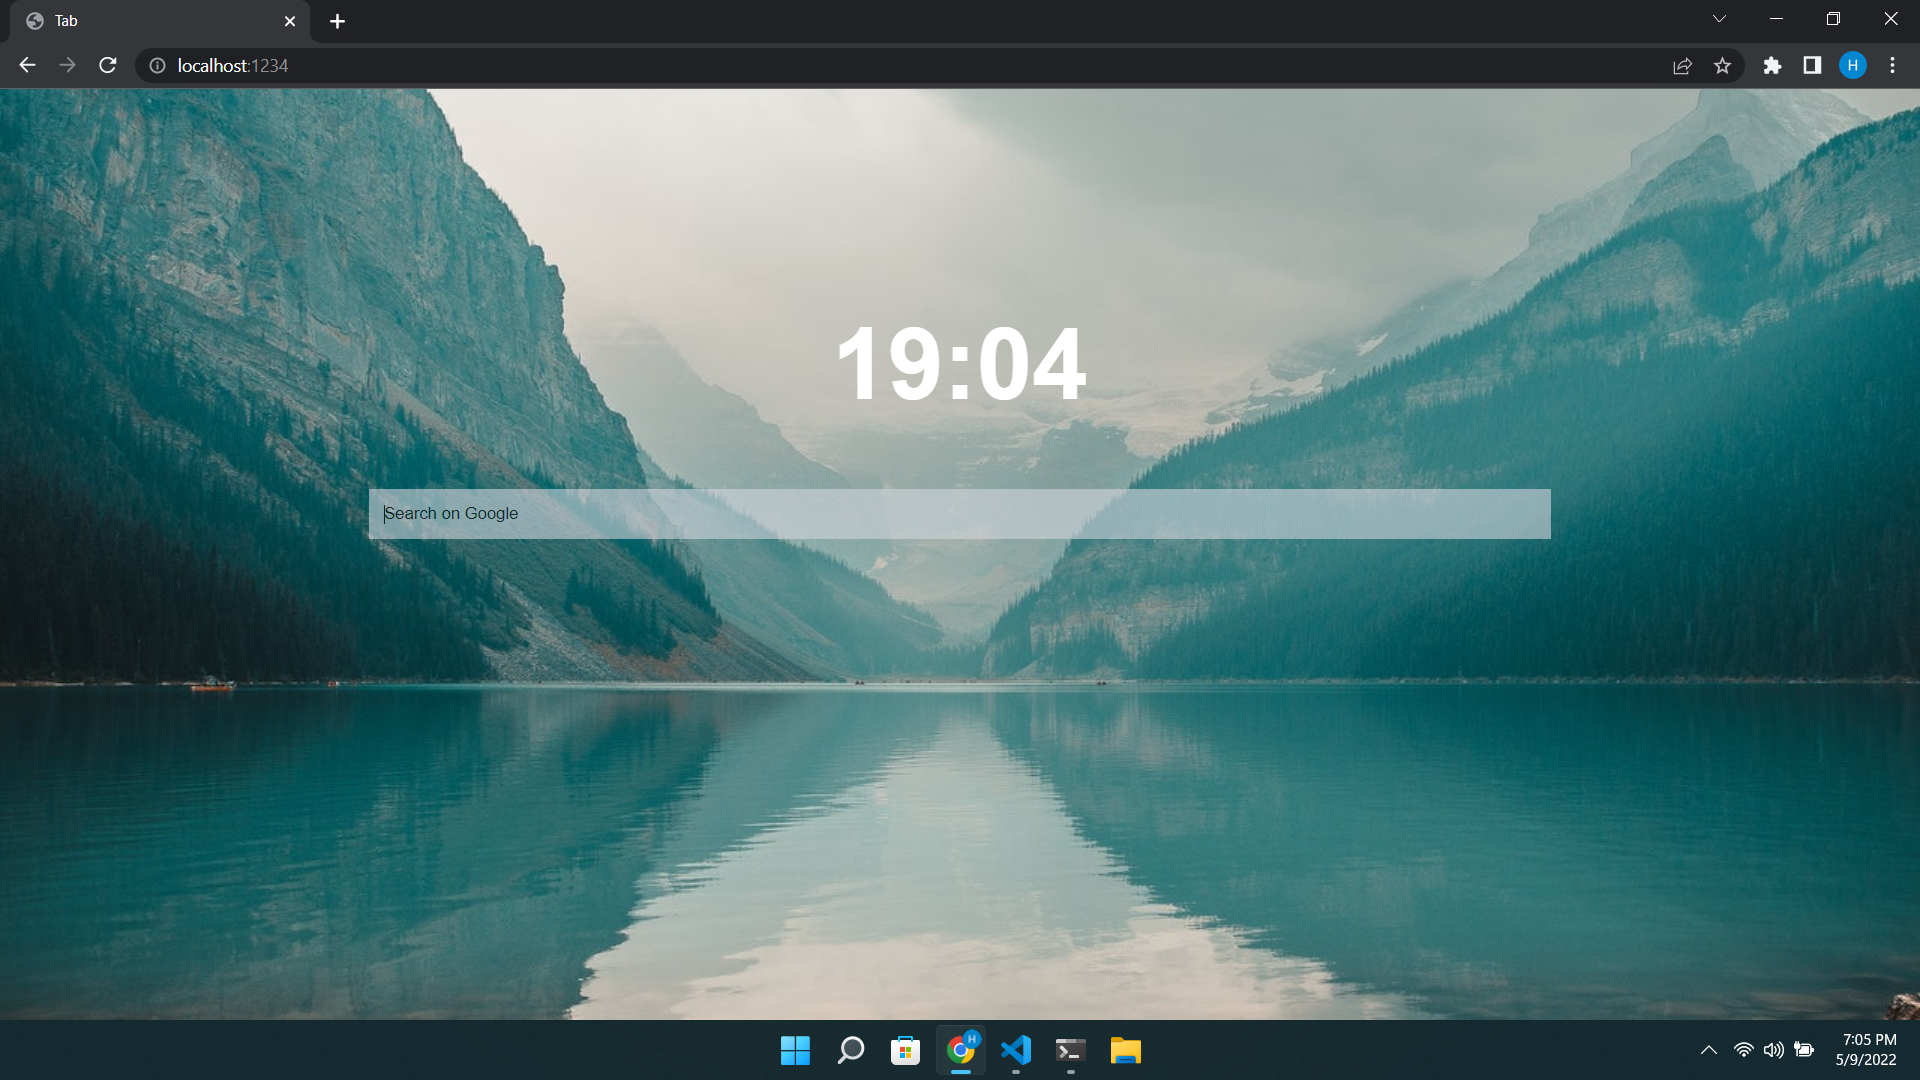
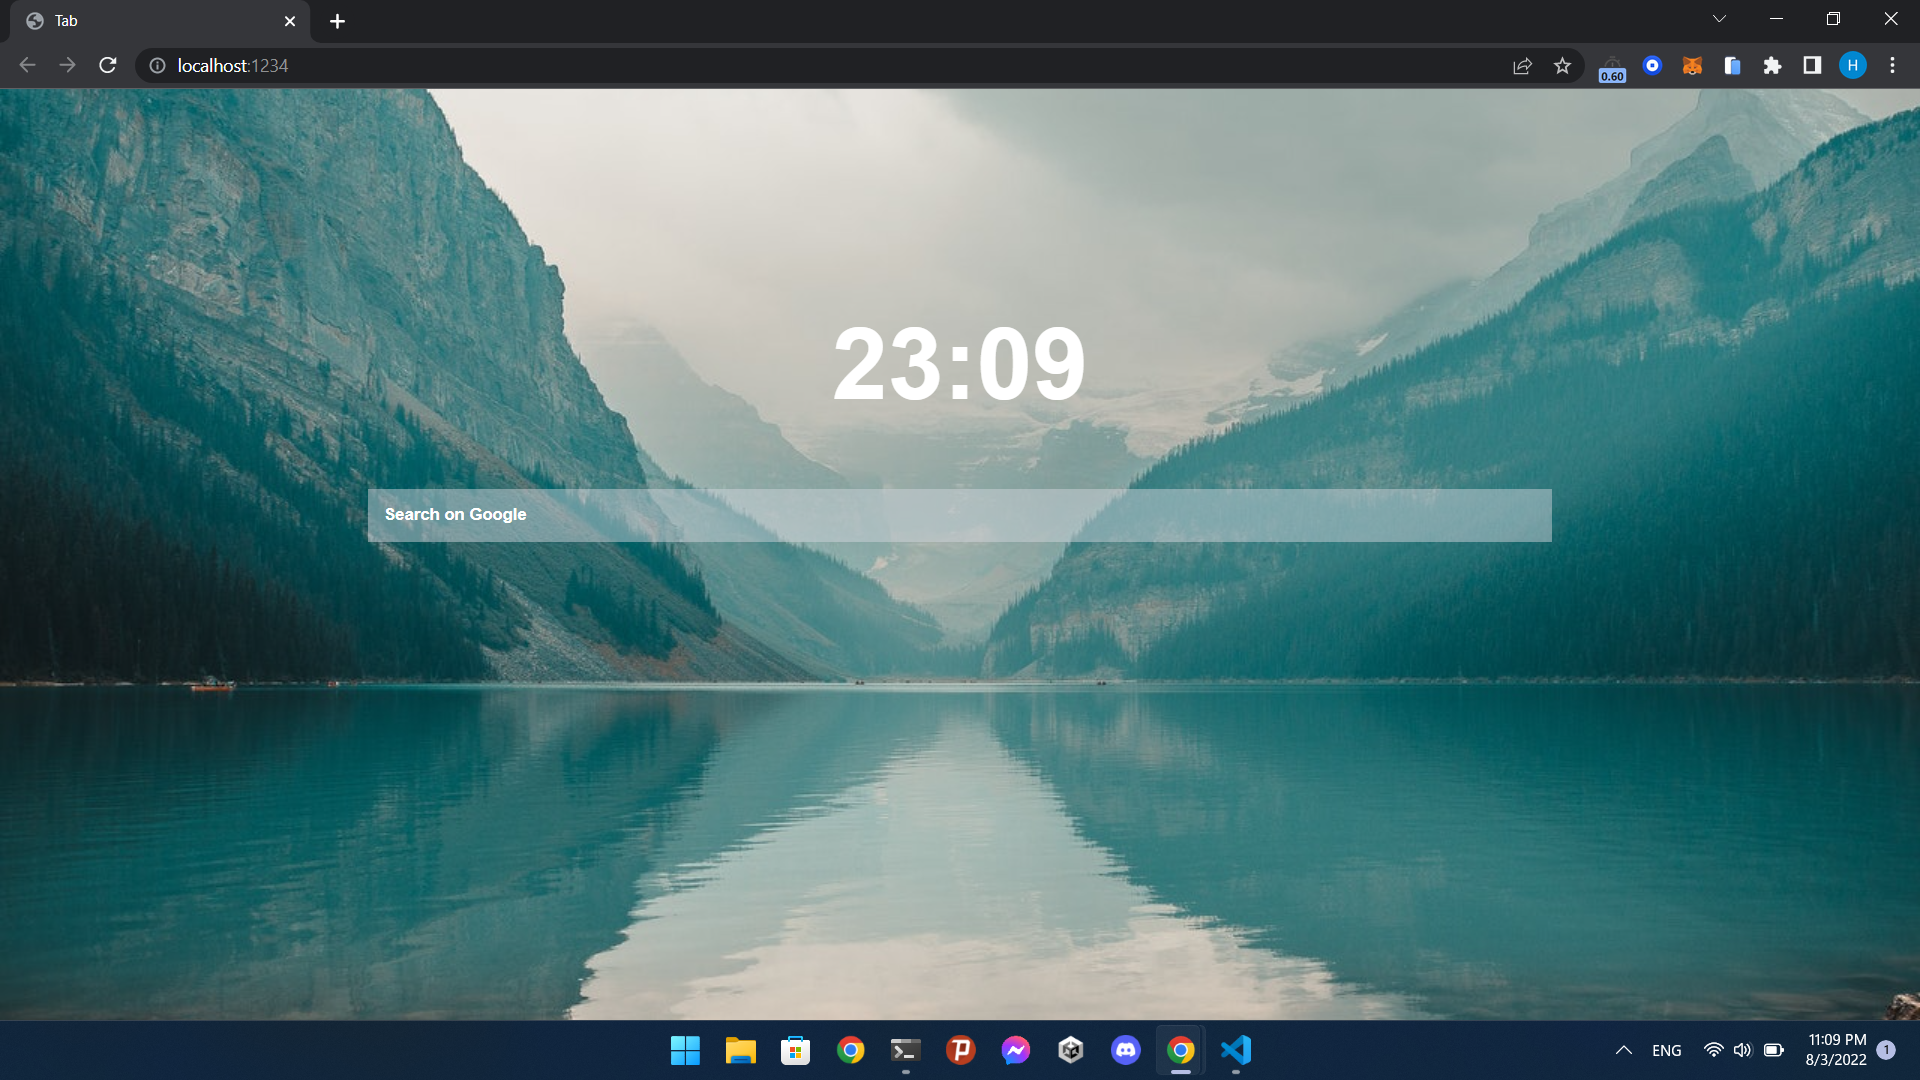
Updated to v1.0.6

diff --git a/src/pages/App.jsx b/src/pages/App.jsx
@@ -9,7 +9,9 @@ const onEnter = (event) => {
 
 const SearchGoogle = (event) => {
     // API https://google.com/search?q={item}
+    // *fix searching # in search bar not working*
     const q = event.target.value.replace("#", "%23");
+    // TODO: will be fixed in next update
     window.open(`https://google.com/search?q=${q}`, "_blank")
 }
 
@@ -27,9 +29,6 @@ const App = () => {
             <div className="flex flex-center">
                 <input type='text' placeholder='Search on Google' className='field-search' onKeyPress={onEnter}/>
             </div>
-            <footer>
-                <img src={require("../icons/settings.svg")} alt="" srcset="" width={40}/>
-            </footer>
         </div>
     )
 }

diff --git a/src/styles/index.page.css b/src/styles/index.page.css
@@ -35,20 +35,19 @@ html, body {
 }
 
 .field-search {
+    font-weight: bold;
     color: black;
     border: none;
-    opacity: 0.6;
-    border: 1px #d1d5db solid;
-    background-color: #d1d5db;
+    border: 1px #d1d5db00 solid;
+    background-color: #d1d5db7a;
     padding: 12px;
     width: 60%;
+    color: rgb(225, 225, 225);
     outline: none;
 }
 
 .field-search::placeholder {
-    color: gray;
-    box-sizing: border-box;
-    opacity: 100%;
+    color: white;
 }
 
 

diff --git a/README.md b/README.md
@@ -1,7 +1,4 @@
-# Tab Theme For Chrome
-
-> **Warning**
-> This project is discontinued by author
+# Tab Theme For Chrome (v1.0.6)
 
 <a href="https://github.com/happer64bit/CleanTab/releases">Download Extension here</a>
 
@@ -16,8 +13,6 @@ npm run build                     # bundle nodejs to javascript
 cp scripts/manifest.json bundle/  # Copy manifest.json to bundle folder
 python scripts/build-zip.py       # build zip file
 ```
-
-> version 1.0.4
 
 ## ScreenShots
 

diff --git a/Changelog.md b/Changelog.md
@@ -1,6 +1,11 @@
 # Change Log
 
+## Version 1.06  | 8/3/2022
+* Updated UI
+* Fix Some Bugs
+
 ## Version 1.0.5 | 6/10/2022
+* Removed .bundle folder
 * Fixed Performance and File Size
 
 ## Version 1.0.4 | 7/8/2022
